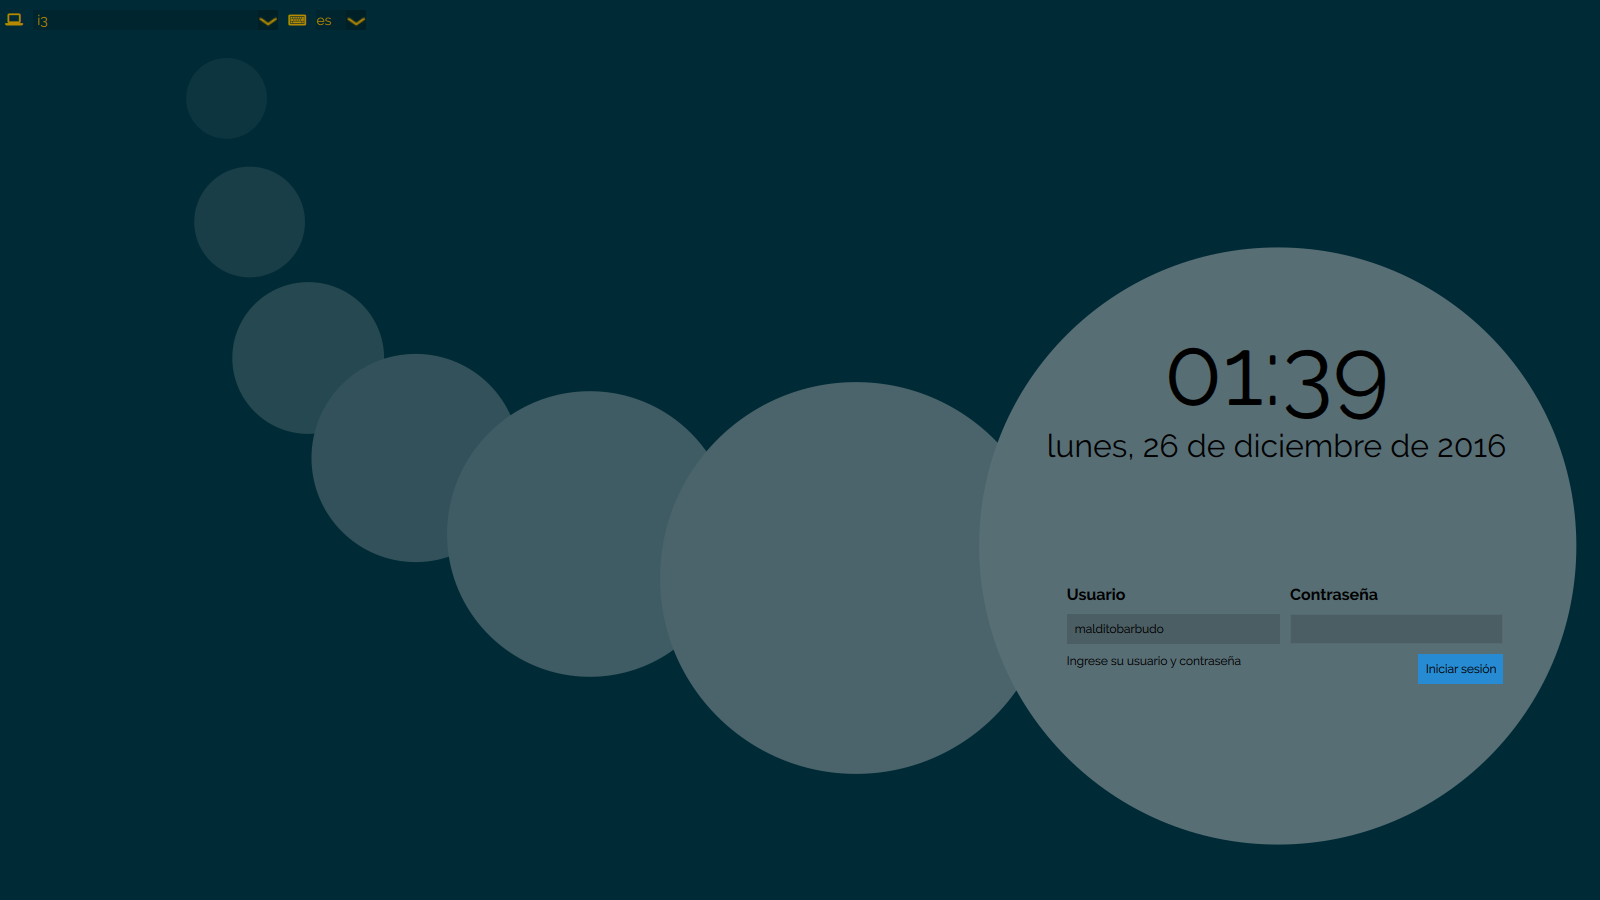
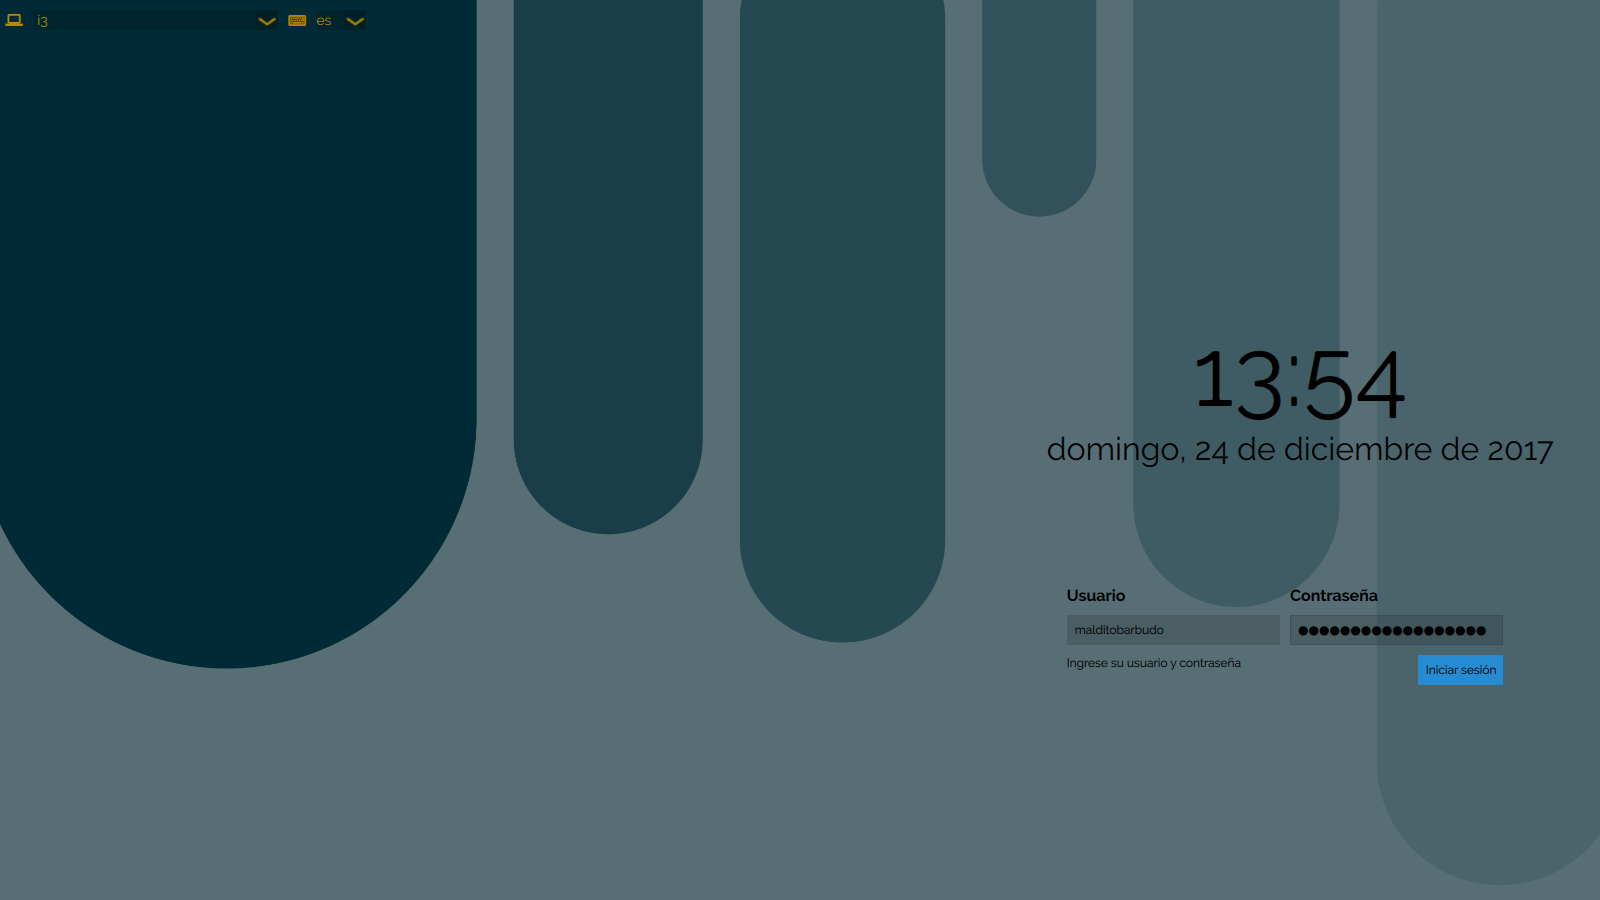
new version, new background

diff --git a/README.md b/README.md
@@ -73,19 +73,26 @@ displayFont="Montserrat"
 
 But be careful, some fonts really don't mix well with the theme.
 
-## Screenshot (2016-12-26)
+## Screenshot (2017-12-24)
 
 ![screenshot](solarized_sddm_theme.png)
 
 ## Former backgrounds
 
-With version 0.1.6 a new default background was introduced (`circles`). If you
-prefer the former background (`bars`) you can find it in the theme folder as
-`bars_background.png`. To use it change the `theme.conf` file accordingly:
+With version 0.1.7 a new default background was introduced (`traces`). If you
+prefer the former backgrounds (`bars` or `circles`) you can find them in the
+theme folder as `bars_background.png` and `circles_background.png`.
+To use any of them change the `theme.conf` file accordingly:
 
 ```
 [General]
 background=bars_background.png
+```
+or
+
+```
+[General]
+background=circles_background.png
 ```
 
 ## Known Issues
